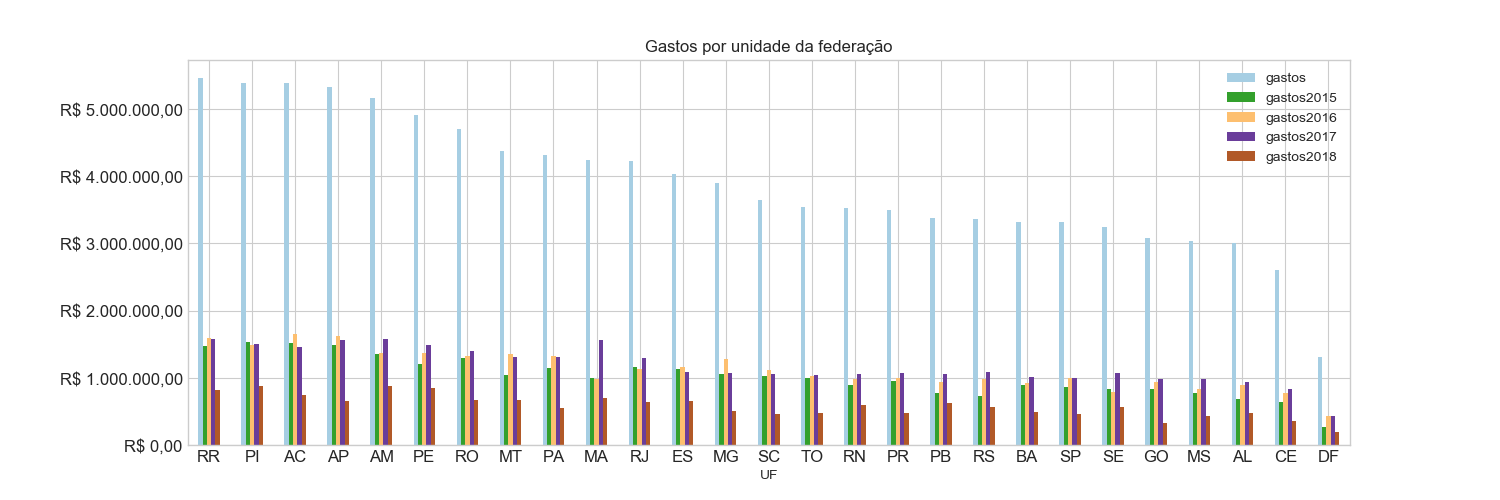
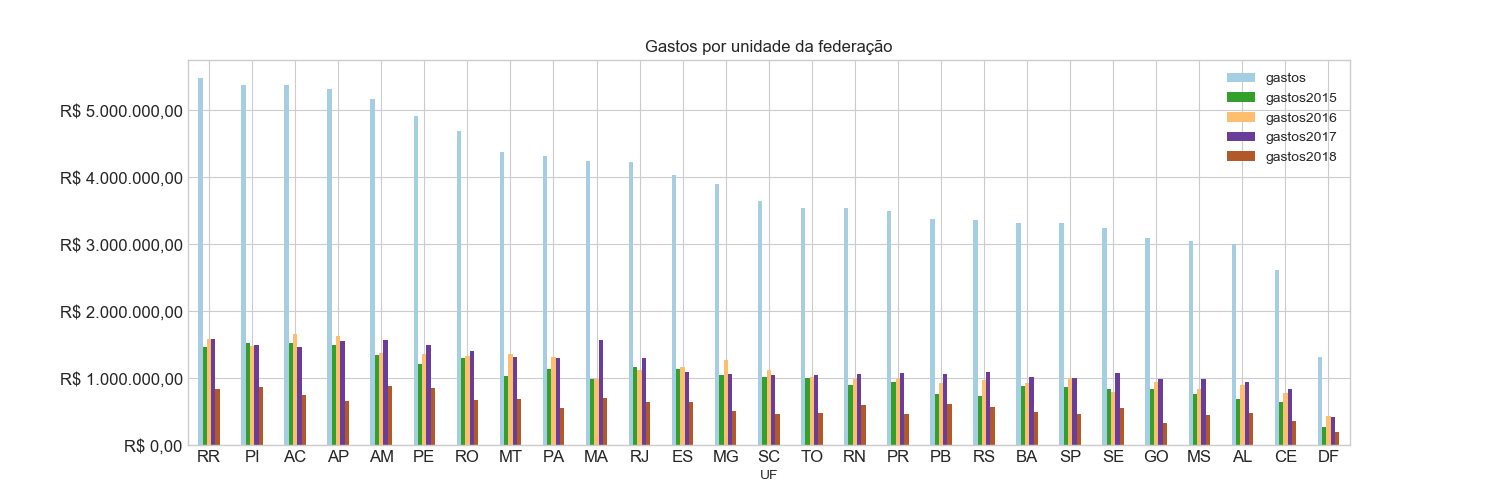
Atualização de dados do Senado (55)- auto

diff --git a/index.html b/index.html
@@ -31,7 +31,7 @@
 <!--Data-->       
 10/08/2018 às 
 <!--Hora-->
-11:24:48      </b><br></div>
+15:50:56      </b><br></div>
       <br>
       <div class="TextoImagem">
         <center>
@@ -104,7 +104,7 @@
               <td>1</td>
               <td align='middle'><a href='http://www6g.senado.leg.br/transparencia/sen/4981/?ano=2018' target='_blank'><img src='fotos/senador4981.jpg' height='51' width='42'><span class='fototip'>Crédito foto: Cléber Medeiros/Supres</span></a></td>
               <td align='left'>Acir Gurgacz</td>
-              <td align='left' class='gastos' name='4981'>R$ 1.423.034,09</td>
+              <td align='left' class='gastos' name='4981'>R$ 1.423.096,64</td>
               <td align='left'>Titular</td>
               <td align='middle'>RO</td>
               <td align='left'>PDT</td>
@@ -148,7 +148,7 @@
               <td>5</td>
               <td align='middle'><a href='http://www6g.senado.leg.br/transparencia/sen/4988/?ano=2018' target='_blank'><img src='fotos/senador4988.jpg' height='51' width='42'><span class='fototip'>Crédito foto: Beto Oliveira/Supres</span></a></td>
               <td align='left'>Ana Amélia</td>
-              <td align='left' class='gastos' name='4988'>R$ 796.278,99</td>
+              <td align='left' class='gastos' name='4988'>R$ 796.280,84</td>
               <td align='left'>Titular</td>
               <td align='middle'>RS</td>
               <td align='left'>PP</td>
@@ -302,7 +302,7 @@
               <td>19</td>
               <td align='middle'><a href='http://www6g.senado.leg.br/transparencia/sen/4994/?ano=2018' target='_blank'><img src='fotos/senador4994.jpg' height='51' width='42'><span class='fototip'>Crédito foto: Beto Oliveira/Supres</span></a></td>
               <td align='left'>Eduardo Braga</td>
-              <td align='left' class='gastos' name='4994'>R$ 1.127.180,12</td>
+              <td align='left' class='gastos' name='4994'>R$ 1.127.218,33</td>
               <td align='left'>Titular</td>
               <td align='middle'>AM</td>
               <td align='left'>MDB</td>
@@ -390,7 +390,7 @@
               <td>27</td>
               <td align='middle'><a href='http://www6g.senado.leg.br/transparencia/sen/5030/?ano=2018' target='_blank'><img src='fotos/senador5030.jpg' height='51' width='42'><span class='fototip'>Crédito foto: Nenhum</span></a></td>
               <td align='left'>Givago Tenório</td>
-              <td align='left' class='gastos' name='5030'>R$ 4.627,49</td>
+              <td align='left' class='gastos' name='5030'>R$ 6.303,15</td>
               <td align='left'>1º Suplente</td>
               <td align='middle'>AL</td>
               <td align='left'>PP</td>
@@ -412,7 +412,7 @@
               <td>29</td>
               <td align='middle'><a href='http://www6g.senado.leg.br/transparencia/sen/5006/?ano=2018' target='_blank'><img src='fotos/senador5006.jpg' height='51' width='42'><span class='fototip'>Crédito foto: Senado Federal</span></a></td>
               <td align='left'>Gleisi Hoffmann</td>
-              <td align='left' class='gastos' name='5006'>R$ 1.430.162,24</td>
+              <td align='left' class='gastos' name='5006'>R$ 1.430.164,09</td>
               <td align='left'>Titular</td>
               <td align='middle'>PR</td>
               <td align='left'>PT</td>
@@ -511,7 +511,7 @@
               <td>38</td>
               <td align='middle'><a href='http://www6g.senado.leg.br/transparencia/sen/5112/?ano=2018' target='_blank'><img src='fotos/senador5112.jpg' height='51' width='42'><span class='fototip'>Crédito foto: Senado Federal</span></a></td>
               <td align='left'>José Medeiros</td>
-              <td align='left' class='gastos' name='5112'>R$ 1.713.755,46</td>
+              <td align='left' class='gastos' name='5112'>R$ 1.713.781,29</td>
               <td align='left'>1º Suplente</td>
               <td align='middle'>MT</td>
               <td align='left'>PODE</td>
@@ -522,7 +522,7 @@
               <td>39</td>
               <td align='middle'><a href='http://www6g.senado.leg.br/transparencia/sen/615/?ano=2018' target='_blank'><img src='fotos/senador615.jpg' height='51' width='42'><span class='fototip'>Crédito foto: Cléber Medeiros/Supres</span></a></td>
               <td align='left'>José Pimentel</td>
-              <td align='left' class='gastos' name='615'>R$ 1.861.912,86</td>
+              <td align='left' class='gastos' name='615'>R$ 1.862.100,14</td>
               <td align='left'>Titular</td>
               <td align='middle'>CE</td>
               <td align='left'>PT</td>
@@ -544,7 +544,7 @@
               <td>41</td>
               <td align='middle'><a href='http://www6g.senado.leg.br/transparencia/sen/1249/?ano=2018' target='_blank'><img src='fotos/senador1249.jpg' height='51' width='42'><span class='fototip'>Crédito foto: Beto Oliveira/Supres</span></a></td>
               <td align='left'>Kátia Abreu</td>
-              <td align='left' class='gastos' name='1249'>R$ 682.361,79</td>
+              <td align='left' class='gastos' name='1249'>R$ 682.395,55</td>
               <td align='left'>Titular</td>
               <td align='middle'>TO</td>
               <td align='left'>PDT</td>
@@ -566,7 +566,7 @@
               <td>43</td>
               <td align='middle'><a href='http://www6g.senado.leg.br/transparencia/sen/4575/?ano=2018' target='_blank'><img src='fotos/senador4575.jpg' height='51' width='42'><span class='fototip'>Crédito foto: Senado Federal</span></a></td>
               <td align='left'>Lídice da Mata</td>
-              <td align='left' class='gastos' name='4575'>R$ 1.314.395,29</td>
+              <td align='left' class='gastos' name='4575'>R$ 1.314.436,09</td>
               <td align='left'>Titular</td>
               <td align='middle'>BA</td>
               <td align='left'>PSB</td>
@@ -577,7 +577,7 @@
               <td>44</td>
               <td align='middle'><a href='http://www6g.senado.leg.br/transparencia/sen/3695/?ano=2018' target='_blank'><img src='fotos/senador3695.jpg' height='51' width='42'><span class='fototip'>Crédito foto: Cléber Medeiros/Supres</span></a></td>
               <td align='left'>Lindbergh Farias</td>
-              <td align='left' class='gastos' name='3695'>R$ 1.409.045,32</td>
+              <td align='left' class='gastos' name='3695'>R$ 1.409.062,38</td>
               <td align='left'>Titular</td>
               <td align='middle'>RJ</td>
               <td align='left'>PT</td>
@@ -687,7 +687,7 @@
               <td>54</td>
               <td align='middle'><a href='http://www6g.senado.leg.br/transparencia/sen/5116/?ano=2018' target='_blank'><img src='fotos/senador5116.jpg' height='51' width='42'><span class='fototip'>Crédito foto: Senado Federal</span></a></td>
               <td align='left'>Pedro Chaves</td>
-              <td align='left' class='gastos' name='5116'>R$ 937.406,90</td>
+              <td align='left' class='gastos' name='5116'>R$ 950.427,27</td>
               <td align='left'>1º Suplente</td>
               <td align='middle'>MS</td>
               <td align='left'>PRB</td>
@@ -731,7 +731,7 @@
               <td>58</td>
               <td align='middle'><a href='http://www6g.senado.leg.br/transparencia/sen/5182/?ano=2018' target='_blank'><img src='fotos/senador5182.jpg' height='51' width='42'><span class='fototip'>Crédito foto: Senado Federal</span></a></td>
               <td align='left'>Regina Sousa</td>
-              <td align='left' class='gastos' name='5182'>R$ 1.446.836,00</td>
+              <td align='left' class='gastos' name='5182'>R$ 1.446.862,79</td>
               <td align='left'>1º Suplente</td>
               <td align='middle'>PI</td>
               <td align='left'>PT</td>
@@ -775,7 +775,7 @@
               <td>62</td>
               <td align='middle'><a href='http://www6g.senado.leg.br/transparencia/sen/5052/?ano=2018' target='_blank'><img src='fotos/senador5052.jpg' height='51' width='42'><span class='fototip'>Crédito foto: Beto Oliveira/Supres</span></a></td>
               <td align='left'>Roberto Muniz</td>
-              <td align='left' class='gastos' name='5052'>R$ 743.325,03</td>
+              <td align='left' class='gastos' name='5052'>R$ 743.548,02</td>
               <td align='left'>1º Suplente</td>
               <td align='middle'>BA</td>
               <td align='left'>PP</td>
@@ -808,7 +808,7 @@
               <td>65</td>
               <td align='middle'><a href='http://www6g.senado.leg.br/transparencia/sen/5110/?ano=2018' target='_blank'><img src='fotos/senador5110.jpg' height='51' width='42'><span class='fototip'>Crédito foto: Senado Federal</span></a></td>
               <td align='left'>Rodrigues Palma</td>
-              <td align='left' class='gastos' name='5110'>R$ 40.387,25</td>
+              <td align='left' class='gastos' name='5110'>R$ 49.351,23</td>
               <td align='left'>2º Suplente</td>
               <td align='middle'>MT</td>
               <td align='left'>PR</td>
@@ -841,7 +841,7 @@
               <td>68</td>
               <td align='middle'><a href='http://www6g.senado.leg.br/transparencia/sen/456/?ano=2018' target='_blank'><img src='fotos/senador456.jpg' height='51' width='42'><span class='fototip'>Crédito foto: Senado Federal</span></a></td>
               <td align='left'>Ronaldo Caiado</td>
-              <td align='left' class='gastos' name='456'>R$ 909.493,09</td>
+              <td align='left' class='gastos' name='456'>R$ 909.518,19</td>
               <td align='left'>Titular</td>
               <td align='middle'>GO</td>
               <td align='left'>DEM</td>
@@ -863,7 +863,7 @@
               <td>70</td>
               <td align='middle'><a href='http://www6g.senado.leg.br/transparencia/sen/5621/?ano=2018' target='_blank'><img src='fotos/senador5621.jpg' height='51' width='42'><span class='fototip'>Crédito foto: A definir</span></a></td>
               <td align='left'>Rudson Leite</td>
-              <td align='left' class='gastos' name='5621'>R$ 63.139,24</td>
+              <td align='left' class='gastos' name='5621'>R$ 85.276,85</td>
               <td align='left'>2º Suplente</td>
               <td align='middle'>RR</td>
               <td align='left'>PV</td>
@@ -918,7 +918,7 @@
               <td>75</td>
               <td align='middle'><a href='http://www6g.senado.leg.br/transparencia/sen/558/?ano=2018' target='_blank'><img src='fotos/senador558.jpg' height='51' width='42'><span class='fototip'>Crédito foto: Senado Federal</span></a></td>
               <td align='left'>Vanessa Grazziotin</td>
-              <td align='left' class='gastos' name='558'>R$ 1.885.434,75</td>
+              <td align='left' class='gastos' name='558'>R$ 1.885.788,28</td>
               <td align='left'>Titular</td>
               <td align='middle'>AM</td>
               <td align='left'>PCdoB</td>
